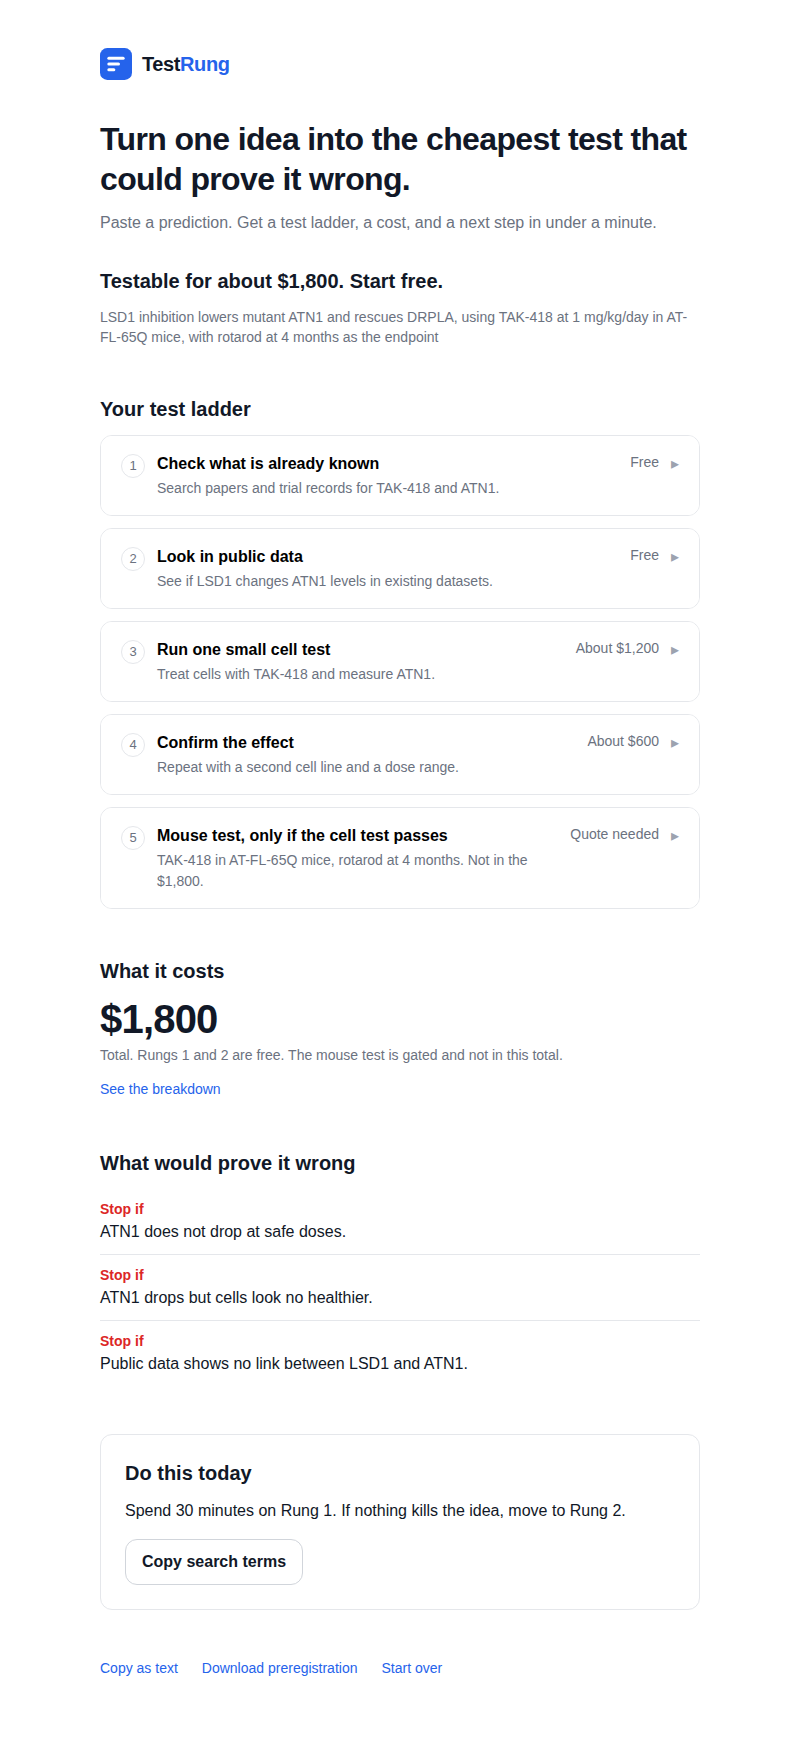
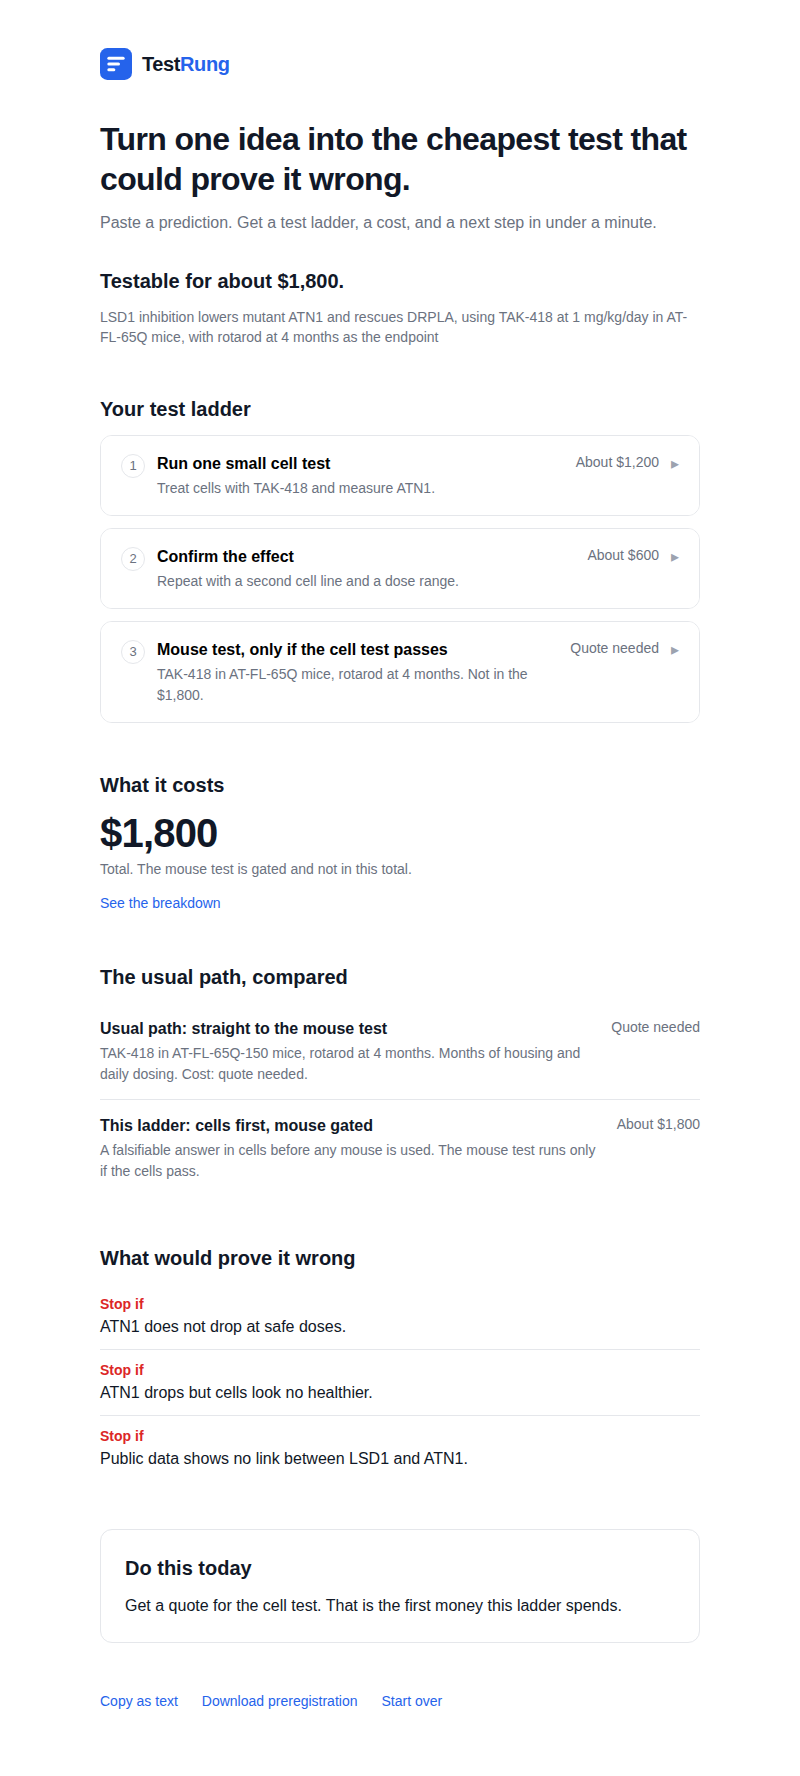
Result shows only paid and gated rungs, adds usual-path comparison

diff --git a/app/page.tsx b/app/page.tsx
@@ -72,6 +72,11 @@ export default function Home() {
     setOpenRung(null);
   };
 
+  // The free rungs (literature, public data) are not shown. They are obvious,
+  // and the engine still computes them for the exports. Only the rungs that
+  // cost money, or are gated, appear in the ladder, renumbered from 1.
+  const shownRungs = ladder ? ladder.rungs.filter((r) => r.costLabel !== "Free") : [];
+
   return (
     <main className="wrap">
       <header className="brand-header">
@@ -141,7 +146,7 @@ export default function Home() {
 
           <section className="section" aria-label="Test ladder">
             <h2>Your test ladder</h2>
-            {ladder.rungs.map((rung) => {
+            {shownRungs.map((rung, i) => {
               const open = openRung === rung.id;
               return (
                 <div key={rung.id} className={`rung ${rung.locked ? "locked" : ""}`}>
@@ -152,7 +157,7 @@ export default function Home() {
                     aria-controls={`rung-${rung.id}`}
                     onClick={() => setOpenRung(open ? null : rung.id)}
                   >
-                    <span className="num" aria-hidden="true">{rung.id}</span>
+                    <span className="num" aria-hidden="true">{i + 1}</span>
                     <span className="body">
                       <span className="title">{rung.title}</span>
                       <span className="summary" style={{ display: "block" }}>{rung.summary}</span>
@@ -179,7 +184,7 @@ export default function Home() {
             <p className="bigcost" aria-label={`Total cost about ${ladder.total.toLocaleString()} dollars`}>
               ${ladder.total.toLocaleString()}
             </p>
-            <p className="meta">Total. Rungs 1 and 2 are free. The mouse test is gated and not in this total.</p>
+            <p className="meta">Total. The mouse test is gated and not in this total.</p>
             <p style={{ marginTop: 12 }}>
               <button type="button" className="linklike" onClick={() => setShowCosts(!showCosts)} aria-expanded={showCosts}>
                 {showCosts ? STRINGS.breakdownHide : STRINGS.breakdownToggle}
@@ -187,9 +192,9 @@ export default function Home() {
             </p>
             {showCosts && (
               <div>
-                {ladder.rungs
+                {shownRungs
                   .filter((r) => !r.locked)
-                  .flatMap((r) => r.costs.map((c) => ({ rung: r.id, ...c })))
+                  .flatMap((r, i) => r.costs.map((c) => ({ rung: i + 1, ...c })))
                   .map((c, i) => (
                     <div className="costline" key={i}>
                       <span>Rung {c.rung}: {c.label}</span>
@@ -197,11 +202,29 @@ export default function Home() {
                     </div>
                   ))}
                 <div className="costline" style={{ fontWeight: 600 }}>
-                  <span>Total, Rungs 1 to 4</span>
+                  <span>Total</span>
                   <span>${ladder.total.toLocaleString()}</span>
                 </div>
               </div>
             )}
+          </section>
+
+          <section className="section">
+            <h2>The usual path, compared</h2>
+            <div className="compare-row">
+              <span>
+                <span className="title">{ladder.usualPath.title}</span>
+                <span className="summary" style={{ display: "block" }}>{ladder.usualPath.detail}</span>
+              </span>
+              <span className="cost">Quote needed</span>
+            </div>
+            <div className="compare-row">
+              <span>
+                <span className="title">This ladder: cells first, mouse gated</span>
+                <span className="summary" style={{ display: "block" }}>A falsifiable answer in cells before any mouse is used. The mouse test runs only if the cells pass.</span>
+              </span>
+              <span className="cost">About ${ladder.total.toLocaleString()}</span>
+            </div>
           </section>
 
           <section className="section">
@@ -219,11 +242,7 @@ export default function Home() {
           <section className="section">
             <div className="nextcard">
               <h2 style={{ marginTop: 0 }}>{STRINGS.nextHeading}</h2>
-              <p>{ladder.nextStep}</p>
-              <button type="button" className="secondary" onClick={() => void copy(ladder.searchTerms.join("\n"), "Search terms copied")}>
-                {STRINGS.copySearch}
-              </button>
-              {copied && <p className="meta" style={{ marginTop: 10 }}>{copied}</p>}
+              <p style={{ marginBottom: 0 }}>{ladder.nextStep}</p>
             </div>
           </section>
 
@@ -238,6 +257,7 @@ export default function Home() {
               {STRINGS.startOver}
             </button>
           </div>
+          {copied && <p className="meta" style={{ marginTop: 12 }}>{copied}</p>}
         </div>
       )}
     </main>

diff --git a/lib/ladder.ts b/lib/ladder.ts
@@ -24,6 +24,7 @@ export type Ladder = {
   searchTerms: string[];
   isExample: boolean;
   detected: { drug: string | null; target: string | null; disease: string | null };
+  usualPath: { title: string; detail: string };
 };
 
 const DRUGS = ["tak-418", "tranylcypromine", "tcp"];
@@ -126,7 +127,7 @@ export function buildLadder(prediction: string, isExample = false): Ladder {
       costLabel: "About $600",
       summary: "Repeat with a second cell line and a dose range.",
       whatToDo:
-        "Repeat Rung 3 in a second cell line, with a full dose range and a vehicle control. Preregister the dose, the readout, and the kill line before you start.",
+        "Repeat the cell test in a second cell line, with a full dose range and a vehicle control. Preregister the dose, the readout, and the kill line before you start.",
       whatYouNeed: "A second line, the same readout, and a written preregistration.",
       howLong: "1 week",
       go: "The effect repeats, in a second line.",
@@ -146,7 +147,7 @@ export function buildLadder(prediction: string, isExample = false): Ladder {
       whatToDo: isDrpla
         ? "Only now ask a lab for a written quote: breeding and aging to 4 months, daily gavage for 14 days, rotarod, and 120 kDa mutant ATN1 fragments. Ask if a cohort is already aging, or if historical controls can cut the control group."
         : "Only now ask a lab for a written quote for the animal test. Ask if a cohort is already aging, or if historical controls can cut the control group.",
-      whatYouNeed: "A written quote, an animal protocol, and a pass from Rungs 3 and 4.",
+      whatYouNeed: "A written quote, an animal protocol, and a pass from the cell tests.",
       howLong: "4 months, plus breeding",
       go: "Cell effect repeats, and the lab confirms a cohort and a price.",
       stop: "No cell effect, no cohort, or no quote. Do not start a colony.",
@@ -159,7 +160,7 @@ export function buildLadder(prediction: string, isExample = false): Ladder {
 
   return {
     prediction,
-    verdict: `Testable for about $${total.toLocaleString()}. Start free.`,
+    verdict: `Testable for about $${total.toLocaleString()}.`,
     total,
     currency: "USD",
     rungs,
@@ -174,10 +175,20 @@ export function buildLadder(prediction: string, isExample = false): Ladder {
           `${target} moves but cells look no healthier.`,
           "Public data shows no link between your target and your disease.",
         ],
-    nextStep: "Spend 30 minutes on Rung 1. If nothing kills the idea, move to Rung 2.",
+    nextStep: "Get a quote for the cell test. That is the first money this ladder spends.",
     searchTerms,
     isExample,
     detected,
+    usualPath: isDrpla
+      ? {
+          title: "Usual path: straight to the mouse test",
+          detail:
+            "TAK-418 in AT-FL-65Q-150 mice, rotarod at 4 months. Months of housing and daily dosing. Cost: quote needed.",
+        }
+      : {
+          title: "Usual path: straight to the animal test",
+          detail: "Months of housing and dosing. Cost: quote needed.",
+        },
   };
 }
 
@@ -187,7 +198,7 @@ export function ladderAsText(l: Ladder): string {
     ``,
     `Verdict: ${l.verdict}`,
     ``,
-    `What it costs: $${l.total.toLocaleString()} total. Rungs 1 and 2 are free.`,
+    `What it costs: $${l.total.toLocaleString()} total. The mouse test is gated and not in this total.`,
     ...l.rungs.map(
       (r) => `Rung ${r.id}: ${r.title} (${r.costLabel}). ${r.summary} Stop if: ${r.stop}`,
     ),
@@ -217,7 +228,7 @@ export function preregistrationAsMarkdown(l: Ladder): string {
     `## Primary readout`,
     `Rung 3: target protein level at 48 to 72 hours, dose response, vehicle control.`,
     ``,
-    `## Total cost (Rungs 1 to 4)`,
+    `## Total cost`,
     `$${l.total.toLocaleString()} USD. Mouse test (Rung 5) is gated and quoted separately.`,
     ``,
     `Generated by Cheap-Test Converter v1. This is a draft. A lab must review it before use.`,

diff --git a/app/globals.css b/app/globals.css
@@ -51,6 +51,11 @@ textarea::placeholder { color: #9ca3af; }
 .rung-detail p { margin: 0 0 12px; font-size: 15px; }
 .rung-detail .k { font-size: 14px; font-weight: 600; }
 .locked { background: #f9fafb; }
+.compare-row { display: flex; gap: 16px; align-items: flex-start; padding: 14px 0; }
+.compare-row + .compare-row { border-top: 1px solid #e5e7eb; }
+.compare-row .title { font-weight: 600; font-size: 16px; }
+.compare-row .summary { font-size: 14px; color: #6b7280; margin-top: 2px; }
+.compare-row .cost { flex: none; font-size: 14px; color: #6b7280; white-space: nowrap; }
 .kill { list-style: none; padding: 0; margin: 0; }
 .kill li { padding: 10px 0; border-top: 1px solid #e5e7eb; font-size: 16px; }
 .kill li:first-child { border-top: none; }

diff --git a/README.fr.md b/README.fr.md
@@ -62,19 +62,17 @@ L'exemple préchargé est la vraie prédiction de RareGap :
 
 > L'inhibition de LSD1 réduit l'ATN1 mutante et sauve la DRPLA, avec du TAK-418 à 1 mg/kg/jour chez des souris AT-FL-65Q, et le rotarod à 4 mois comme critère d'évaluation
 
-L'échelle qu'il produit :
+L'échelle qu'il produit. La vérification de la littérature et des données publiques vient d'abord et n'est pas affichée : elle va de soi, chaque chercheur la fait avant de dépenser quoi que ce soit. Ce que l'échelle montre, ce sont les dépenses, de la moins chère à la plus chère :
 
 | Échelon | Test | Coût |
 | --- | --- | --- |
-| 1 | Vérifiez ce qui est déjà connu. Recherchez des articles et des dossiers d'essais sur le TAK-418 et l'ATN1. | Gratuit |
-| 2 | Consultez les données publiques. Vérifiez si LSD1 modifie les niveaux d'ATN1 dans les jeux de données existants. | Gratuit |
-| 3 | Réalisez un petit test cellulaire. Traitez des cellules avec du TAK-418 et mesurez l'ATN1. | Environ $1,200 |
-| 4 | Confirmez l'effet. Répétez avec une deuxième lignée cellulaire et une gamme de doses. | Environ $600 |
-| 5 | Test chez la souris, seulement si le test cellulaire réussit. TAK-418 chez des souris AT-FL-65Q, rotarod à 4 mois. | Devis nécessaire, verrouillé |
+| 1 | Réalisez un petit test cellulaire. Traitez des cellules avec du TAK-418 et mesurez l'ATN1. | Environ $1,200 |
+| 2 | Confirmez l'effet. Répétez avec une deuxième lignée cellulaire et une gamme de doses. | Environ $600 |
+| 3 | Test chez la souris, seulement si le test cellulaire réussit. TAK-418 chez des souris AT-FL-65Q, rotarod à 4 mois. | Devis nécessaire, verrouillé |
 
-**Total, échelons 1 à 4 : environ $1,800.** Le test chez la souris n'est pas dans le total. Il est verrouillé jusqu'à ce que le test cellulaire réussisse, car si l'ATN1 ne diminue pas dans les cellules, la dépense pour les souris est gaspillée.
+**Total : environ $1,800.** Le test chez la souris n'est pas dans le total. Il est verrouillé jusqu'à ce que le test cellulaire réussisse, car si l'ATN1 ne diminue pas dans les cellules, la dépense pour les souris est gaspillée.
 
-![Échelle TestRung pour l'exemple DRPLA, verdict $1,800, cinq échelons de la moins chère à la plus chère](screenshots/08-branded-ladder.png)
+![Échelle TestRung pour l'exemple DRPLA, verdict $1,800, trois échelons de la moins chère à la plus chère](screenshots/08-branded-ladder.png)
 
 Ce qui le réfuterait :
 
@@ -82,7 +80,7 @@ Ce qui le réfuterait :
 - **Stop if** l'ATN1 diminue mais les cellules ne semblent pas en meilleure santé.
 - **Stop if** les données publiques ne montrent aucun lien entre LSD1 et ATN1.
 
-![Ventilation des coûts TestRung, échelons 3 et 4 ligne par ligne, total $1,800](screenshots/04-cost-breakdown.png)
+![Ventilation des coûts TestRung, test cellulaire et confirmation ligne par ligne, total $1,800](screenshots/04-cost-breakdown.png)
 
 La ventilation des coûts est à un appui de distance, ligne par ligne. Rien n'est caché dans un chiffre rond.
 

diff --git a/README.es.md b/README.es.md
@@ -62,19 +62,17 @@ El ejemplo precargado es la predicción real de RareGap:
 
 > La inhibición de LSD1 reduce la ATN1 mutante y rescata la DRPLA, con TAK-418 a 1 mg/kg/día en ratones AT-FL-65Q, y rotarod a los 4 meses como criterio de valoración
 
-La escalera que produce:
+La escalera que produce. La comprobación de la literatura y de los datos públicos viene primero y no se muestra: es obvia, cada investigador la hace antes de gastar nada. Lo que la escalera muestra es el gasto, de menor a mayor costo:
 
 | Peldaño | Prueba | Costo |
 | --- | --- | --- |
-| 1 | Comprueba lo que ya se sabe. Busca artículos y registros de ensayos sobre TAK-418 y ATN1. | Gratis |
-| 2 | Mira los datos públicos. Comprueba si LSD1 cambia los niveles de ATN1 en los conjuntos de datos existentes. | Gratis |
-| 3 | Ejecuta una pequeña prueba celular. Trata las células con TAK-418 y mide ATN1. | Alrededor de $1,200 |
-| 4 | Confirma el efecto. Repite con una segunda línea celular y un rango de dosis. | Alrededor de $600 |
-| 5 | Prueba en ratones, solo si la prueba celular supera el filtro. TAK-418 en ratones AT-FL-65Q, rotarod a los 4 meses. | Se necesita presupuesto, bloqueado |
+| 1 | Ejecuta una pequeña prueba celular. Trata las células con TAK-418 y mide ATN1. | Alrededor de $1,200 |
+| 2 | Confirma el efecto. Repite con una segunda línea celular y un rango de dosis. | Alrededor de $600 |
+| 3 | Prueba en ratones, solo si la prueba celular supera el filtro. TAK-418 en ratones AT-FL-65Q, rotarod a los 4 meses. | Se necesita presupuesto, bloqueado |
 
-**Total, peldaños 1 a 4: alrededor de $1,800.** La prueba en ratones no está incluida en el total. Está bloqueada hasta que la prueba celular la supere, porque si ATN1 no disminuye en las células, el gasto en ratones es un desperdicio.
+**Total: alrededor de $1,800.** La prueba en ratones no está incluida en el total. Está bloqueada hasta que la prueba celular la supere, porque si ATN1 no disminuye en las células, el gasto en ratones es un desperdicio.
 
-![Escalera de TestRung para el ejemplo de DRPLA, veredicto de $1,800, cinco peldaños de menor a mayor costo](screenshots/08-branded-ladder.png)
+![Escalera de TestRung para el ejemplo de DRPLA, veredicto de $1,800, tres peldaños de menor a mayor costo](screenshots/08-branded-ladder.png)
 
 Qué demostraría que está equivocada:
 
@@ -82,7 +80,7 @@ Qué demostraría que está equivocada:
 - **Stop if** ATN1 disminuye pero las células no se ven más sanas.
 - **Stop if** los datos públicos no muestran ningún vínculo entre LSD1 y ATN1.
 
-![Desglose de costos de TestRung, peldaños 3 y 4 línea por línea, total de $1,800](screenshots/04-cost-breakdown.png)
+![Desglose de costos de TestRung, prueba celular y confirmación línea por línea, total de $1,800](screenshots/04-cost-breakdown.png)
 
 El desglose de costos está a un toque de distancia, línea por línea. Nada se esconde en una cifra redonda.
 

diff --git a/README.md b/README.md
@@ -62,19 +62,17 @@ The pre-loaded example is the real RareGap prediction:
 
 > LSD1 inhibition lowers mutant ATN1 and rescues DRPLA, using TAK-418 at 1 mg/kg/day in AT-FL-65Q mice, with rotarod at 4 months as the endpoint
 
-The ladder it produces:
+The ladder it produces. The literature check and the public data check come first and are not shown: they are obvious, every researcher does them before spending anything. What the ladder shows is the spending, cheapest first:
 
 | Rung | Test | Cost |
 | --- | --- | --- |
-| 1 | Check what is already known. Search papers and trial records for TAK-418 and ATN1. | Free |
-| 2 | Look in public data. See if LSD1 changes ATN1 levels in existing datasets. | Free |
-| 3 | Run one small cell test. Treat cells with TAK-418 and measure ATN1. | About $1,200 |
-| 4 | Confirm the effect. Repeat with a second cell line and a dose range. | About $600 |
-| 5 | Mouse test, only if the cell test passes. TAK-418 in AT-FL-65Q mice, rotarod at 4 months. | Quote needed, locked |
+| 1 | Run one small cell test. Treat cells with TAK-418 and measure ATN1. | About $1,200 |
+| 2 | Confirm the effect. Repeat with a second cell line and a dose range. | About $600 |
+| 3 | Mouse test, only if the cell test passes. TAK-418 in AT-FL-65Q mice, rotarod at 4 months. | Quote needed, locked |
 
-**Total, Rungs 1 to 4: about $1,800.** The mouse test is not in the total. It is locked until the cell test passes, because if ATN1 does not fall in cells, the mouse spend is wasted.
+**Total: about $1,800.** The mouse test is not in the total. It is locked until the cell test passes, because if ATN1 does not fall in cells, the mouse spend is wasted.
 
-![TestRung ladder for the DRPLA example, verdict $1,800, five rungs cheapest first](screenshots/08-branded-ladder.png)
+![TestRung ladder for the DRPLA example, verdict $1,800, three rungs cheapest first](screenshots/08-branded-ladder.png)
 
 What would prove it wrong:
 
@@ -82,7 +80,7 @@ What would prove it wrong:
 - **Stop if** ATN1 drops but cells look no healthier.
 - **Stop if** public data shows no link between LSD1 and ATN1.
 
-![TestRung cost breakdown, Rung 3 and Rung 4 line by line, total $1,800](screenshots/04-cost-breakdown.png)
+![TestRung cost breakdown, cell test and confirm line by line, total $1,800](screenshots/04-cost-breakdown.png)
 
 The cost breakdown is one tap away, line by line. Nothing is hidden in a round number.
 

diff --git a/ARCHITECTURE.md b/ARCHITECTURE.md
@@ -17,7 +17,8 @@ Neon facts used, from public launch reporting: Gemini 4 Neon launched Nov 18, 20
 Opus 5.5 (`anthropic/claude-opus-5.5` on OpenRouter, one call, 2026-11-20) produced the UI spec this app implements:
 
 - One screen, top to bottom: hero, one sentence, input, one button, verdict, total cost as one big number, ladder (3 to 4 rungs, cheapest first, collapsed), kill criteria, next-step card, quiet footer.
-- Copy: hero "Turn one idea into the cheapest test that could prove it wrong." Button "Build my test ladder". Verdict "Testable for about $1,800. Start free."
+- Copy: hero "Turn one idea into the cheapest test that could prove it wrong." Button "Build my test ladder". Verdict "Testable for about $1,800."
+- Display, changed 2026-11-20 at Richardson's call: the result shows only the rungs that cost money or are gated (cell test, confirm, mouse locked), renumbered 1 to 3. The two free rungs (literature, public data) are not shown, they are obvious, but the engine still computes all five and the exports (copy as text, preregistration) keep the full record. The verdict dropped "Start free." for the same reason. A "The usual path, compared" section was added under the cost: the usual path (straight to the mouse test, months of housing and dosing, quote needed) against this ladder (cells first, mouse gated, about $1,800). It exists because v1 showed only the cheap ladder with nothing to compare it against; the usual path has no price, only a quote, so the comparison is time and gating, never an invented number.
 - Visual system: Inter or system UI, 32/40 hero, 20/28 section heads, 16/24 body, 14/20 meta, 600 headings, 400 body, 4px spacing base, sections 48px apart, rungs 12px apart, 24px card padding, max 640px centered, white background, gray-900 text, gray-500 meta, gray-200 borders, one accent (blue-600) for button and focus only, red-600 text marker for kill items, no red fills, 1px border, 12px radius, no shadows, no icons except a chevron.
 - Interaction: only one filled button at a time, one rung open at a time, 150ms height animation, cost shows one large number first with a "See the breakdown" toggle, loading skeleton, focus moves to the verdict, Cmd/Ctrl+Enter submits, button disabled until 10 or more characters.
 - Mobile: single column, 20px side padding, hero 26/32, button full width 48px tall, next-step card at the bottom, never sticky.
